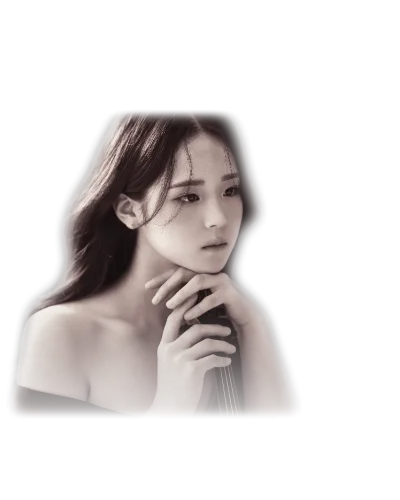
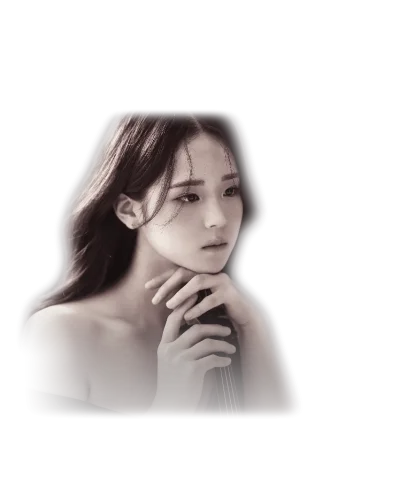
Replace 노은채 portrait with the toned-down version; restore overlap order
The original 노은채 shot was a landscape close-up, so the bare shoulders
filled more of the frame and read brighter than the neighbouring portraits.
The replacement keeps the face pixel-identical, darkens the shoulders below
the chin and softens the left shoulder edge that spilled toward 백온유
(mean luminance 122.5 -> 111.3, left alpha edge 9px -> 21px).

With the shoulder trimmed, drop the z-index:1 added to 백온유 in #20 so the
2nd violin row uses the same overlap order as every other row, as the
updated asset notes ask.

Claude-Session: https://claude.ai/code/session_01LxsnbHhVvuwvMSvfEaRGEa

Changed region(s): [[0.24, 0.66, 0.54, 0.81], [0.03, 0.66, 0.21, 0.84], [0.63, 0.69, 0.69, 0.81]]

diff --git a/concertante/index.html b/concertante/index.html
@@ -95,7 +95,7 @@
     <div style="position:relative;margin-top:6px;height:0;padding-bottom:calc(32.74% + 22px)">
       <figure style="position:absolute;top:0;left:0%;width:26.19%;margin:0"><img src="/concertante/assets/ensemble/baek-geon.webp" alt="제2바이올린 백건" width="400" height="500" loading="lazy" decoding="async" style="display:block;width:100%;height:auto"><figcaption style="margin-top:-4px;text-align:center;font-family:ConcertanteOriginalMaru,serif;font-size:min(14px,3.6vw);font-weight:400;line-height:1.3;letter-spacing:normal;color:#f3ede6;white-space:nowrap;-webkit-text-fill-color:currentColor;font-style:normal;font-synthesis:none;font-kerning:normal">백건</figcaption></figure>
       <figure style="position:absolute;top:0;left:18.45%;width:26.19%;margin:0"><img src="/concertante/assets/ensemble/jung-jihoon.webp" alt="제2바이올린 정지훈" width="400" height="500" loading="lazy" decoding="async" style="display:block;width:100%;height:auto"><figcaption style="margin-top:-4px;text-align:center;font-family:ConcertanteOriginalMaru,serif;font-size:min(14px,3.6vw);font-weight:400;line-height:1.3;letter-spacing:normal;color:#f3ede6;white-space:nowrap;-webkit-text-fill-color:currentColor;font-style:normal;font-synthesis:none;font-kerning:normal">정지훈</figcaption></figure>
-      <figure style="position:absolute;top:0;left:36.9%;width:26.19%;margin:0;z-index:1"><img src="/concertante/assets/ensemble/baek-onyu.webp" alt="제2바이올린 백온유" width="400" height="500" loading="lazy" decoding="async" style="display:block;width:100%;height:auto"><figcaption style="margin-top:-4px;text-align:center;font-family:ConcertanteOriginalMaru,serif;font-size:min(14px,3.6vw);font-weight:400;line-height:1.3;letter-spacing:normal;color:#f3ede6;white-space:nowrap;-webkit-text-fill-color:currentColor;font-style:normal;font-synthesis:none;font-kerning:normal">백온유</figcaption></figure>
+      <figure style="position:absolute;top:0;left:36.9%;width:26.19%;margin:0"><img src="/concertante/assets/ensemble/baek-onyu.webp" alt="제2바이올린 백온유" width="400" height="500" loading="lazy" decoding="async" style="display:block;width:100%;height:auto"><figcaption style="margin-top:-4px;text-align:center;font-family:ConcertanteOriginalMaru,serif;font-size:min(14px,3.6vw);font-weight:400;line-height:1.3;letter-spacing:normal;color:#f3ede6;white-space:nowrap;-webkit-text-fill-color:currentColor;font-style:normal;font-synthesis:none;font-kerning:normal">백온유</figcaption></figure>
       <figure style="position:absolute;top:0;left:55.35%;width:26.19%;margin:0"><img src="/concertante/assets/ensemble/noh-eunchae.webp" alt="제2바이올린 노은채" width="400" height="500" loading="lazy" decoding="async" style="display:block;width:100%;height:auto"><figcaption style="margin-top:-4px;text-align:center;font-family:ConcertanteOriginalMaru,serif;font-size:min(14px,3.6vw);font-weight:400;line-height:1.3;letter-spacing:normal;color:#f3ede6;white-space:nowrap;-webkit-text-fill-color:currentColor;font-style:normal;font-synthesis:none;font-kerning:normal">노은채</figcaption></figure>
     </div>
   </div>
